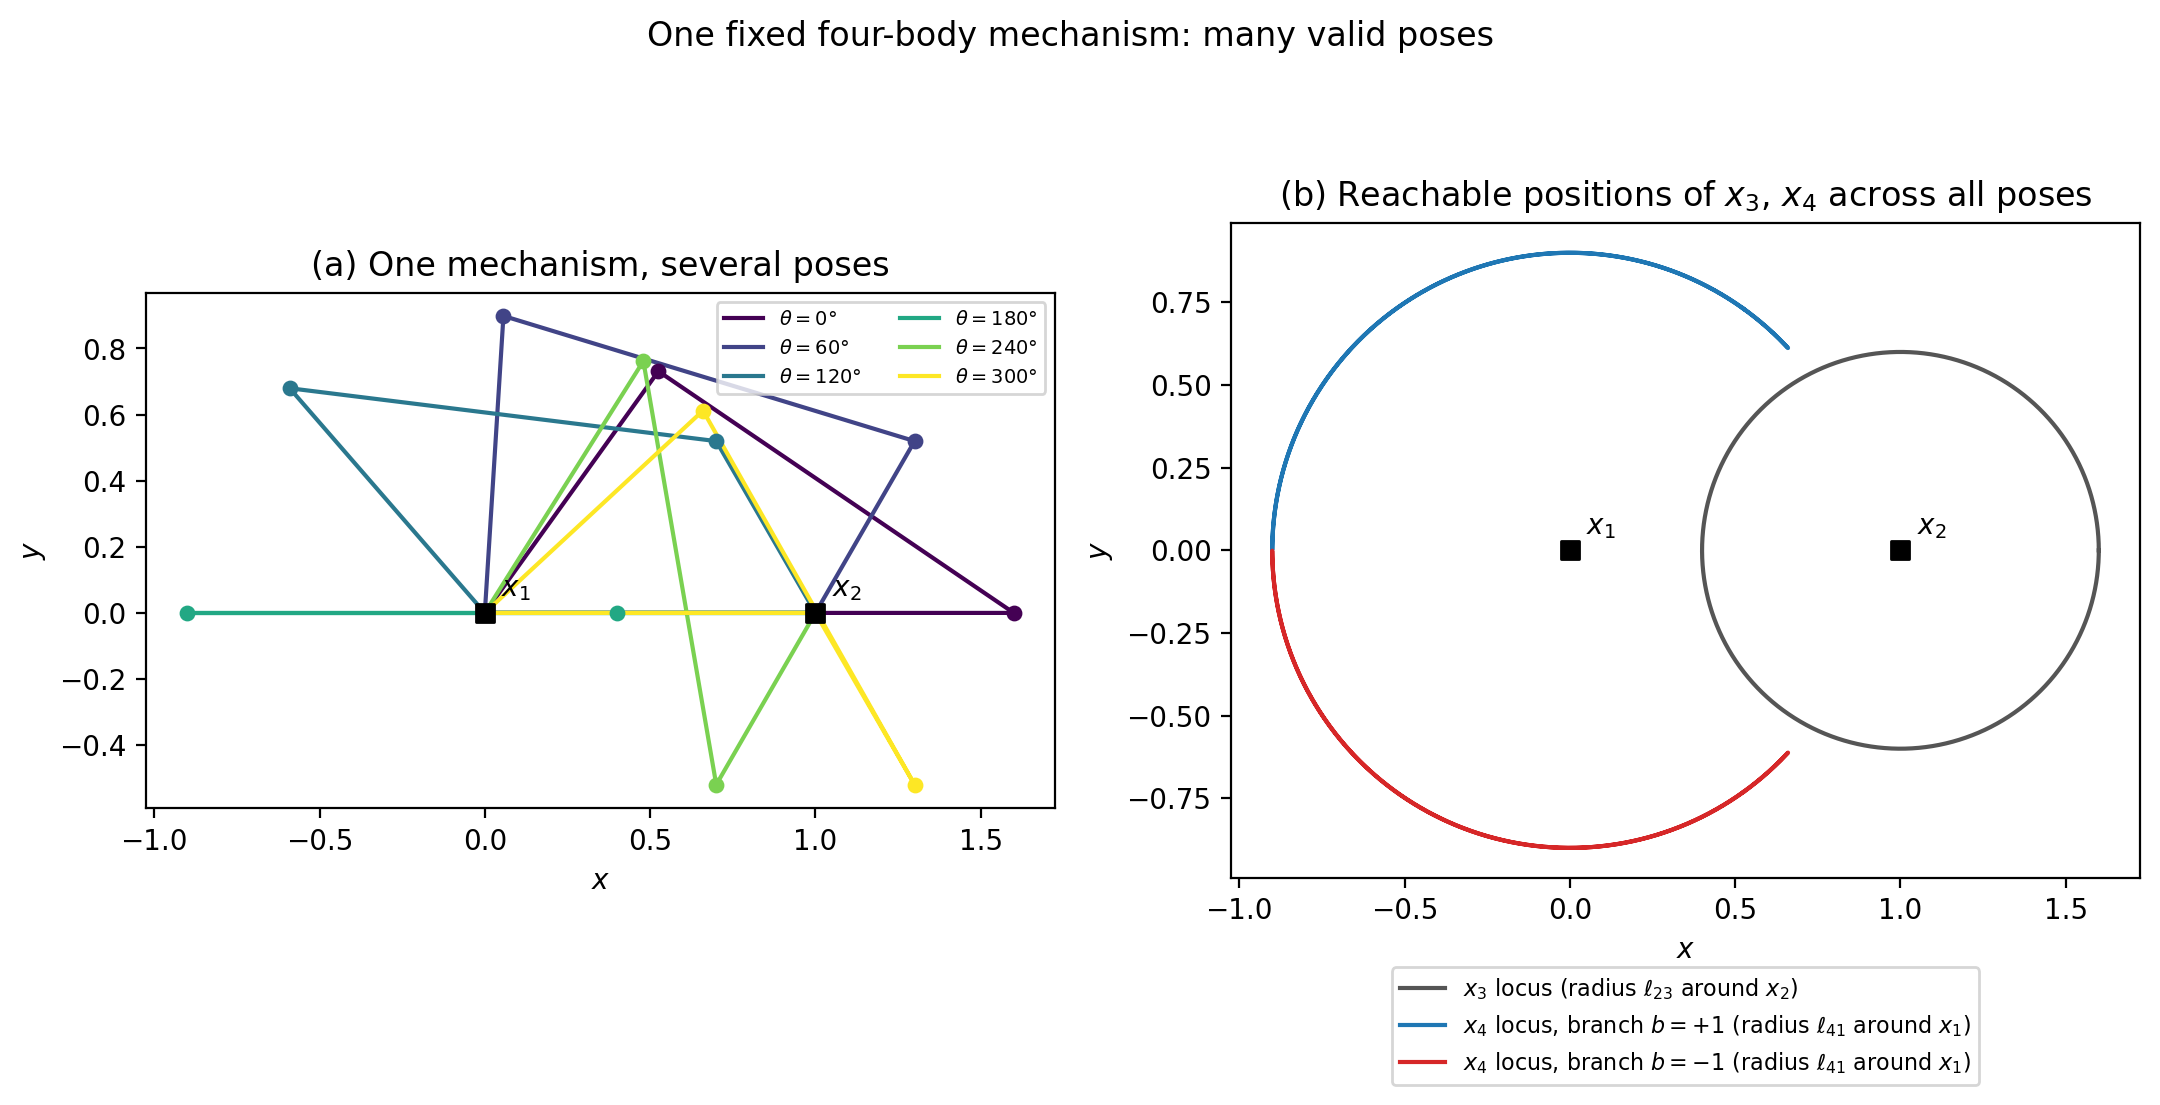
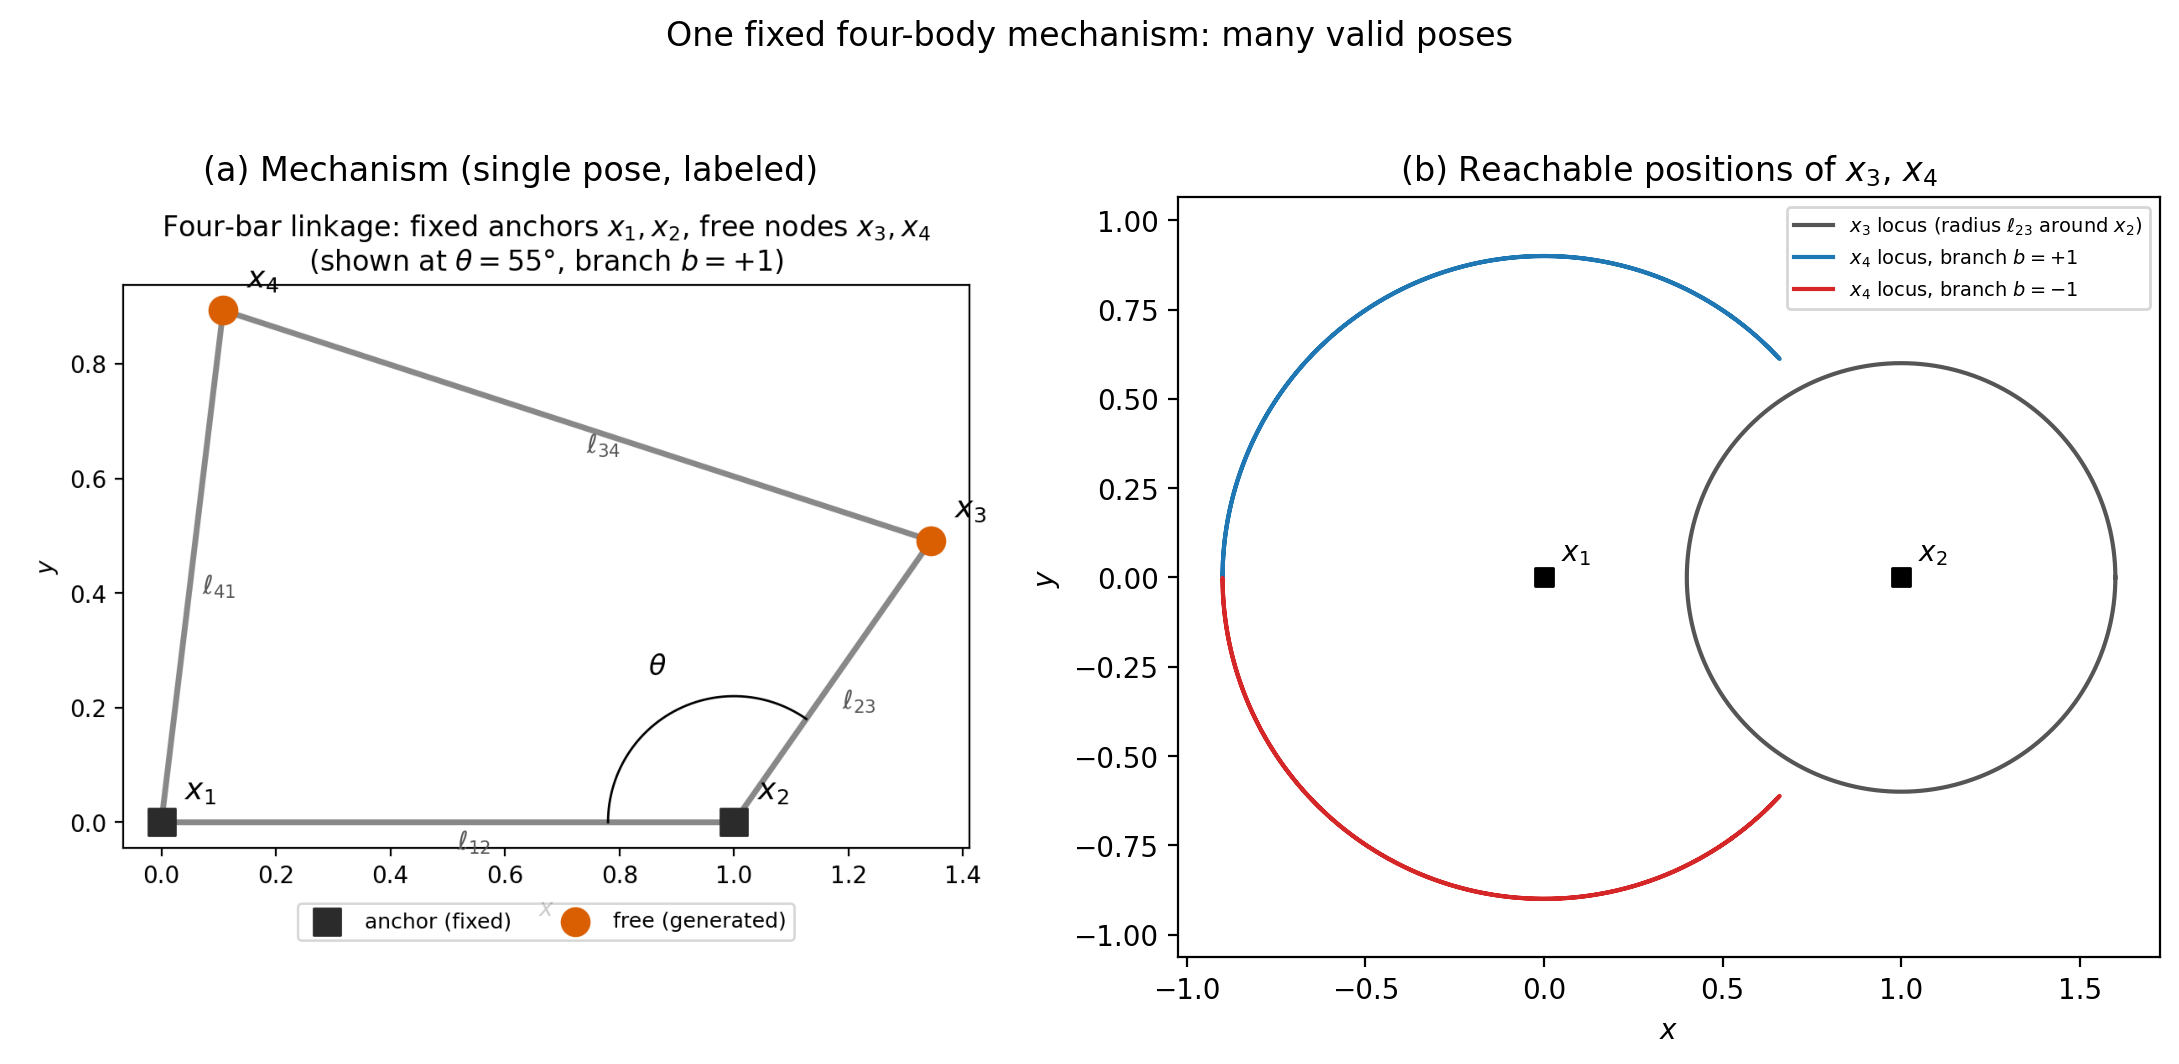
Fix dataset overview figure: equal panel heights, use labeled schematic
Panel (a) now embeds the pre-rendered single-pose schematic (matching
box aspect ratio) instead of the multi-pose overlay, and panel (b) is
box-aspect-matched to it so both panels render at the same height.

diff --git a/experiments/E00_problem_visualization/plot_dataset_overview.py b/experiments/E00_problem_visualization/plot_dataset_overview.py
@@ -12,18 +12,31 @@ x3 and x4 jointly) is shown separately in the coupler-point curve of
 visualize_problem.py.
 """
 
+import pathlib
+
 import numpy as np
 import matplotlib.pyplot as plt
+import matplotlib.image as mpimg
 
-from visualize_problem import X1, X2, BRANCH_COLORS, solve_linkage, save_figure, plot_mechanism
+from visualize_problem import X1, X2, BRANCH_COLORS, solve_linkage, save_figure
+
+SCHEMATIC_PATH = (
+    pathlib.Path(__file__).resolve().parent.parent.parent
+    / "figures" / "E00_mechanism_schematic.png"
+)
 
 
-def plot_mechanism_snapshots(ax):
-    plot_mechanism(ax)
-    ax.set_title("(a) One mechanism, several poses")
+def plot_schematic(ax):
+    """Embed the pre-rendered single-pose schematic; return its aspect
+    ratio (height / width) so the other panel can match its box shape."""
+    img = mpimg.imread(SCHEMATIC_PATH)
+    ax.imshow(img)
+    ax.axis("off")
+    ax.set_title("(a) Mechanism (single pose, labeled)")
+    return img.shape[0] / img.shape[1]
 
 
-def plot_node_loci(ax):
+def plot_node_loci(ax, box_aspect):
     thetas = np.linspace(0, 2 * np.pi, 2000)
     x3_locus = []
     x4_locus = {+1: [], -1: []}
@@ -39,23 +52,26 @@ def plot_node_loci(ax):
         pts = np.array(pts)
         tag = "+1" if branch == 1 else "-1"
         ax.plot(*pts.T, color=BRANCH_COLORS[branch], lw=1.5,
-                 label=rf"$x_4$ locus, branch $b={tag}$ (radius $\ell_{{41}}$ around $x_1$)")
+                 label=rf"$x_4$ locus, branch $b={tag}$")
 
     ax.scatter(*X1, color="black", marker="s", s=45, zorder=4)
     ax.scatter(*X2, color="black", marker="s", s=45, zorder=4)
     ax.annotate("$x_1$", X1, textcoords="offset points", xytext=(6, 6))
     ax.annotate("$x_2$", X2, textcoords="offset points", xytext=(6, 6))
-    ax.set_title("(b) Reachable positions of $x_3$, $x_4$ across all poses")
-    ax.set_aspect("equal")
+    ax.set_title("(b) Reachable positions of $x_3$, $x_4$")
     ax.set_xlabel("$x$")
     ax.set_ylabel("$y$")
-    ax.legend(loc="upper center", bbox_to_anchor=(0.5, -0.12), fontsize=8)
+    # Match the schematic's box shape (not just the data aspect) so both
+    # panels render at the same height.
+    ax.set_aspect("equal", adjustable="datalim")
+    ax.set_box_aspect(box_aspect)
+    ax.legend(loc="upper right", fontsize=7)
 
 
 def main():
     fig, axes = plt.subplots(1, 2, figsize=(11, 5.5))
-    plot_mechanism_snapshots(axes[0])
-    plot_node_loci(axes[1])
+    box_aspect = plot_schematic(axes[0])
+    plot_node_loci(axes[1], box_aspect)
     fig.suptitle("One fixed four-body mechanism: many valid poses")
     fig.tight_layout()
     save_figure(fig, "dataset_overview", bbox_inches="tight")
